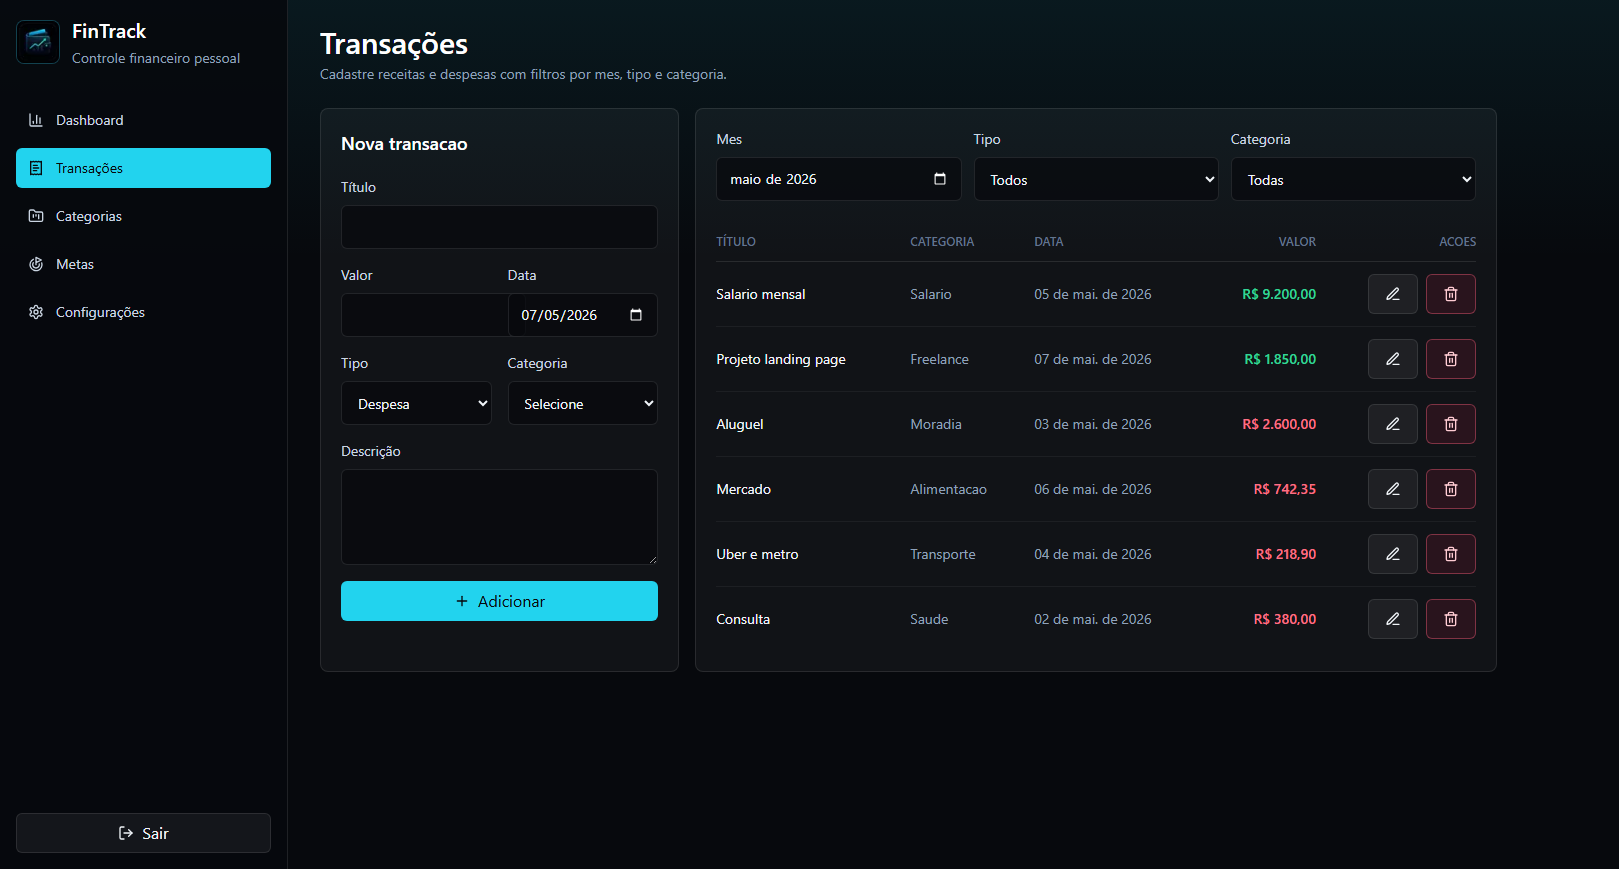
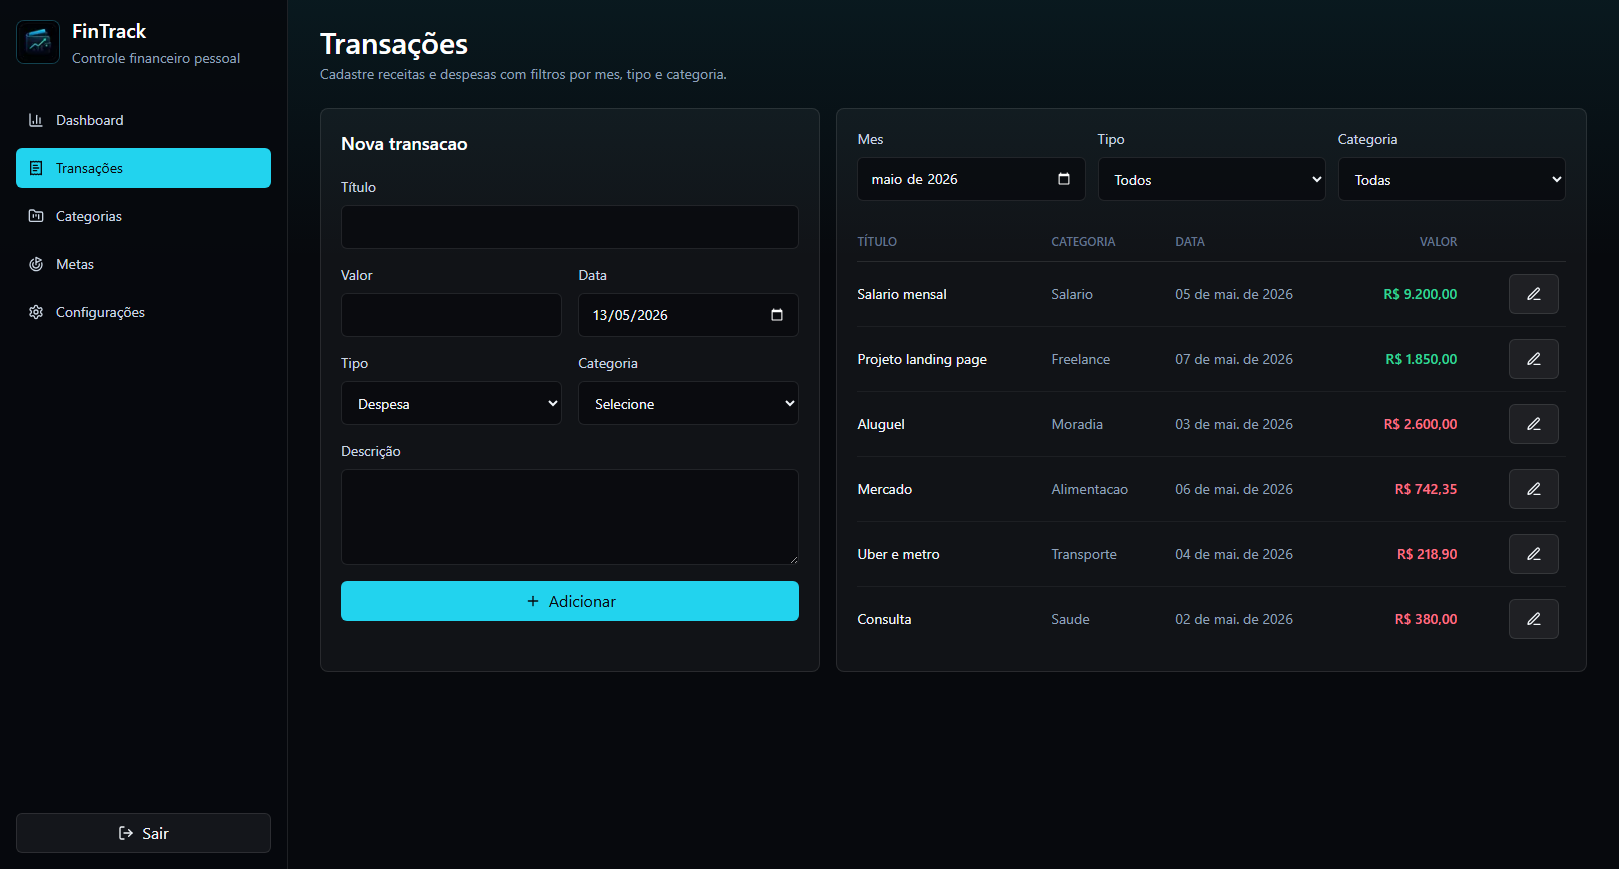
chore(apps): atualiza screenshots, dependências e utilitário de estilos
Adiciona novas capturas de tela mobile e atualiza a galeria do README.

Atualiza dependências do mobile e web, refatora o utilitário `tw` para usar `react-native-css/components` e ajusta o componente `Card` para evitar overflow.

diff --git a/apps/mobile/src/tw/index.tsx b/apps/mobile/src/tw/index.tsx
@@ -1,5 +1,11 @@
 import React from "react";
-import { useCssElement } from "react-native-css";
+import {
+  Pressable as CssPressable,
+  ScrollView as CssScrollView,
+  Text as CssText,
+  TextInput as CssTextInput,
+  View as CssView
+} from "react-native-css/components";
 import {
   Pressable as RNPressable,
   ScrollView as RNScrollView,
@@ -14,19 +20,19 @@ export type PressableProps = React.ComponentProps<typeof RNPressable> & { classN
 export type TextInputProps = React.ComponentProps<typeof RNTextInput> & { className?: string };
 
 export function View(props: ViewProps) {
-  return useCssElement(RNView, props, { className: "style" });
+  return <CssView {...props} />;
 }
 
 export function Text(props: TextProps) {
-  return useCssElement(RNText, props, { className: "style" });
+  return <CssText {...props} />;
 }
 
 export function Pressable(props: PressableProps) {
-  return useCssElement(RNPressable, props, { className: "style" });
+  return <CssPressable {...props} />;
 }
 
 export function TextInput(props: TextInputProps) {
-  return useCssElement(RNTextInput, props, { className: "style" });
+  return <CssTextInput {...props} />;
 }
 
 export function ScrollView(
@@ -35,8 +41,5 @@ export function ScrollView(
     contentContainerClassName?: string;
   }
 ) {
-  return useCssElement(RNScrollView, props, {
-    className: "style",
-    contentContainerClassName: "contentContainerStyle"
-  });
+  return <CssScrollView {...props} />;
 }

diff --git a/apps/web/components/ui.tsx b/apps/web/components/ui.tsx
@@ -5,7 +5,7 @@ import { AlertCircle, Loader2 } from "lucide-react";
 import { formatCurrency } from "@/lib/format";
 
 export function Card({ children, className = "" }: { children: ReactNode; className?: string }) {
-  return <section className={`rounded-lg border border-white/10 bg-white/[0.045] p-5 ${className}`}>{children}</section>;
+  return <section className={`min-w-0 rounded-lg border border-white/10 bg-white/[0.045] p-5 ${className}`}>{children}</section>;
 }
 
 export function Button({

diff --git a/README.en.md b/README.en.md
@@ -28,6 +28,17 @@ The project includes mobile and web interfaces powered by a REST API and a relat
   <em>Authentication and main Dashboard interfaces</em>
 </div>
 
+<br>
+
+<div align="center">
+  <img src="screenshots/mobile/login.png" width="24%" alt="Mobile login" />
+  <img src="screenshots/mobile/dashboard.png" width="24%" alt="Mobile dashboard" />
+  <img src="screenshots/mobile/transacoes.png" width="24%" alt="Mobile transactions" />
+  <img src="screenshots/mobile/metas.png" width="24%" alt="Mobile goals" />
+  <br>
+  <em>Responsive mobile version validated at a 390x844 viewport</em>
+</div>
+
 ---
 
 ## ✨ Features
@@ -205,6 +216,14 @@ GET    /dashboard/summary
 ## 📸 Preview
 
 <div align="center">
+  <h3>Mobile</h3>
+  <img src="screenshots/mobile/dashboard.png" width="24%" alt="Mobile dashboard" />
+  <img src="screenshots/mobile/transacoes.png" width="24%" alt="Mobile transactions" />
+  <img src="screenshots/mobile/categorias.png" width="24%" alt="Mobile categories" />
+  <img src="screenshots/mobile/configuracoes.png" width="24%" alt="Mobile settings" />
+
+  <br><br>
+
   <h3>Transactions</h3>
   <img src="screenshots/transacoes.png" width="100%" alt="Transactions" />
 

diff --git a/README.md b/README.md
@@ -28,6 +28,17 @@ O projeto inclui interfaces mobile e web, alimentadas por uma API REST e um banc
   <em>Interfaces de Autenticação e Dashboard principal</em>
 </div>
 
+<br>
+
+<div align="center">
+  <img src="screenshots/mobile/login.png" width="24%" alt="Login mobile" />
+  <img src="screenshots/mobile/dashboard.png" width="24%" alt="Dashboard mobile" />
+  <img src="screenshots/mobile/transacoes.png" width="24%" alt="Transações mobile" />
+  <img src="screenshots/mobile/metas.png" width="24%" alt="Metas mobile" />
+  <br>
+  <em>Versão responsiva mobile validada em viewport 390x844</em>
+</div>
+
 ---
 
 ## ✨ Funcionalidades
@@ -205,6 +216,14 @@ GET    /dashboard/summary
 ## 📸 Galeria
 
 <div align="center">
+  <h3>Mobile</h3>
+  <img src="screenshots/mobile/dashboard.png" width="24%" alt="Dashboard mobile" />
+  <img src="screenshots/mobile/transacoes.png" width="24%" alt="Transações mobile" />
+  <img src="screenshots/mobile/categorias.png" width="24%" alt="Categorias mobile" />
+  <img src="screenshots/mobile/configuracoes.png" width="24%" alt="Configurações mobile" />
+
+  <br><br>
+
   <h3>Transações</h3>
   <img src="screenshots/transacoes.png" width="100%" alt="Transações" />
 